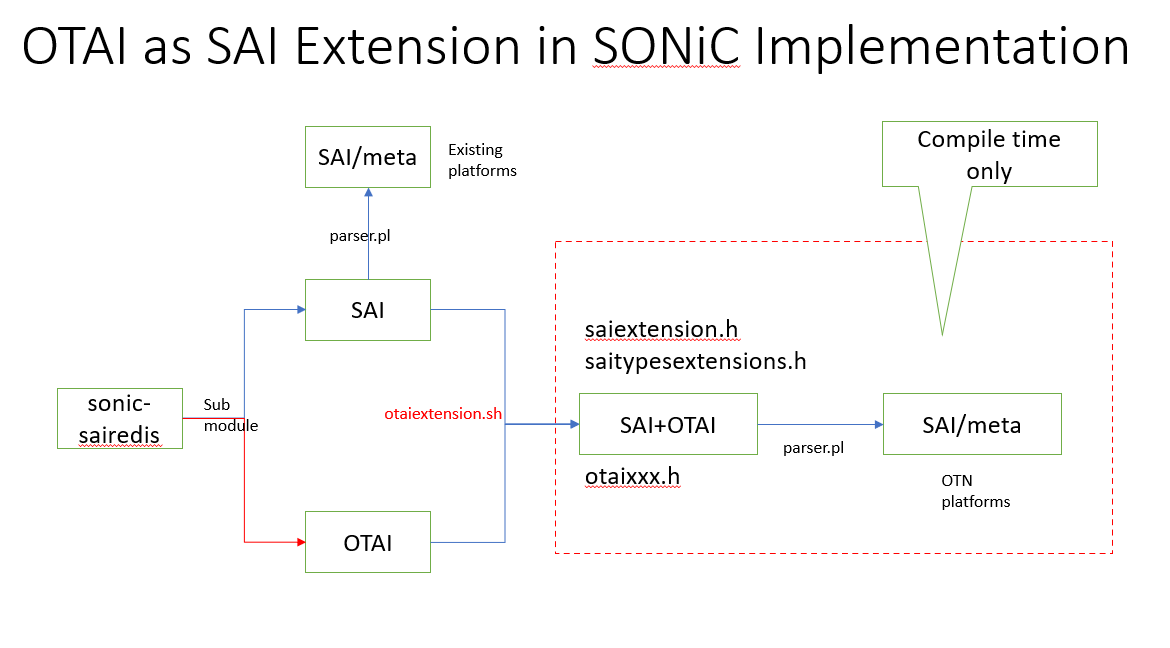
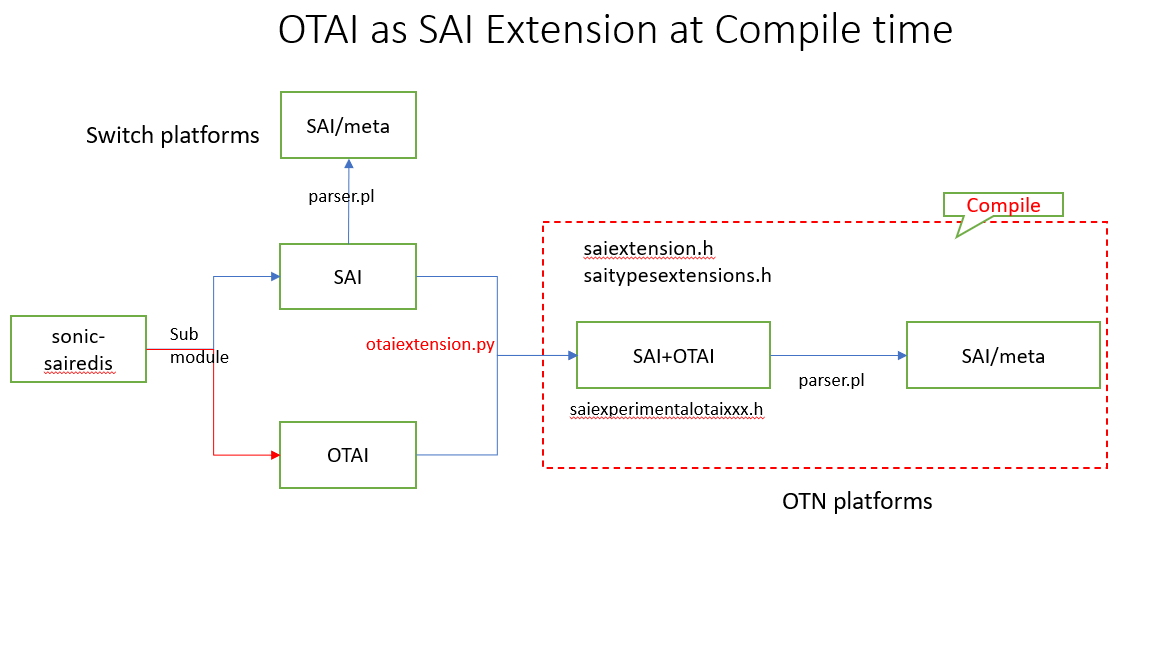
OTAI extension using redis plug-in script

diff --git a/documentation/discussion/OTAI_Extension.md b/documentation/discussion/OTAI_Extension.md
@@ -1,8 +1,8 @@
-# OTAI Integration to SONiC
+# 1. OTAI Integration to SONiC
 ## The Issue
 [OTAI](../OTAI-v0.0.1.md) defines the APIs for optical vendors to implement SONiC drivers in optical transport devices, a great initiative. The current [implementation](https://github.com/zhengweitang-zwt/OTAI) of OTAI is derived from SAI code base. Although the OTAI APIs are new and independent from SAI, it cloned and modified SAI infrastructure and framework, such as all tool scripts and meta mechanism. This creates a parallel version of code base. As SAI keep involving, adding new features and bug fixes, OTAI would be quickly obsoleted without constantly sync with SAI which is a non-sustainable effort. (SAI has 80+ commit just in the first half of 2023)
 
-Therefore, an alternative design is proposed for a more seamless solution of integrating OTAI into SONiC without carrying the burden of maintaining the SAI infrastructure. 
+Therefore, an alternative design is proposed for a more seamless solution of integrating OTAI into SONiC without carrying the burden of maintaining the SAI infrastructure.
 
 ## SAI experimental extension
 While supporting core packet switching features, SONiC also has some build-in extension/customization mechanisms that allows developers to add new or enhance existing features.
@@ -68,13 +68,13 @@ SAI experimental extension mechanism can be utilized to extend SONiC to support 
   - No change is needed for existing SAI code base
 
 The following diagram illustrates the OTAI compile time plug in as SAI extension. 
-<img src="../../assets/otai-extension.png" alt="SONiC for optical transport white-box system" style="zoom: 50%;">
+<img src="../../assets/otai-extension.png" alt="SONiC for optical transport white-box system" style="zoom: 40%;">
 
 
 - A git submodule OTAI [repo](https://github.com/zhengweitang-zwt/OTAI) is added into sonic-sairedis repo.
-- At compile time, for any otn platform, ``otaiextension.sh`` script is invoked to extract OTAI APIs and object types from ``otai.h`` and ``otaitypes.h`` and insert them into ``saiextension.h`` and ``saitypesextension.h``.
-- For existing switch platform, `otaiextension.sh` will not be called and this change is totally transparent to SONiC packet switching.
-- Regular SAI compile then is invoked. As a result, SAI meta data/code generated by ``parser.pl`` would include all API and object type.
+- At compile time, for any otn platform, ``otaiextension.py`` script is invoked to extract OTAI APIs and object types from ``otai.h`` and ``otaitypes.h`` and insert them into ``saiextension.h`` and ``saitypesextension.h``. otai header files are also modified to meet SAI syntax verification.
+- For existing switch platform, `otaiextension.py` will not be called and this change is totally transparent to SONiC packet switching.
+- Regular SAI compile then is invoked. As a result, for OTN platform, SAI meta data/code generated by ``parser.pl`` would include OAI API and object type.
   
 Note that generated code in meta directory, not the original source code, is used in compile of the rest of software modules (ex.,swss and syncd):
 - clear separation of SAI and OTAI code base;
@@ -162,3 +162,37 @@ typedef enum _sai_api_extensions_t
 
 #endif /* __SAIEXTENSIONS_H_ */
 ```
+# 2. OTAI Staistics Support in syncd
+This section describes how to support OTN statistics without change SONiC syncd
+
+## Issue
+Current SONiC does not support traditional telecom performance management (PM) historical counters. 
+- 96 buckets of 15-minute counters including min, max and average.
+- 7 bucket of 24-hour counters with min, max and average.
+
+OTN syncd added historical data by modifying the syncd code base. This causes a code base diverge from the upstream code.
+
+## SONiC Redis plug-in scrip
+SONiC counter DB is designed for storing raw data from the hardware and counters are specified in the Flex-counter DB. To meet the needs for statistics customization, SONiC provides a way of install the plug-in scripts, similar to stored procedure in traditional database systems.These scripts are running inside of redis container and can be invoked whenever the counter DB is updated. 
+The following diagram shows the work flow of redis plug-in script in SONiC.
+
+<img src="../../assets/redis-stroed-procedure.png" alt="SONiC for optical transport white system" style="zoom: 40%;">
+
+- First ochagent install the script as hashed SHA. 
+- When syncd add the counter attribute, it also add the plug-in SHA.
+- When vendor SAI updates the counters, it also send request to redis DB to run the script.
+
+
+## Example
+Here is the flex-counter DB and counter DB after script is installed for Attenuator counters:
+
+<img src="../../assets/redis-plugin-script.png" alt="SONiC for optical transport white system" style="zoom: 40%;">
+
+Here is an example of plug-in script, which update the state DB:
+
+<img src="../../assets/redis-lua-script.png" alt="SONiC for optical transport white system" style="zoom: 40%;">
+
+Since the script is running inside of redis, it is very easy and efficient to read/write any DBs.
+
+## Conclusion
+Counter DB should only contains the raw data of the hardware specified in SAI. For statistics customization, redis plug-in scripts should be configured. Therefore, no syncd code need to be changed to support PM functionality for OTN devices.
